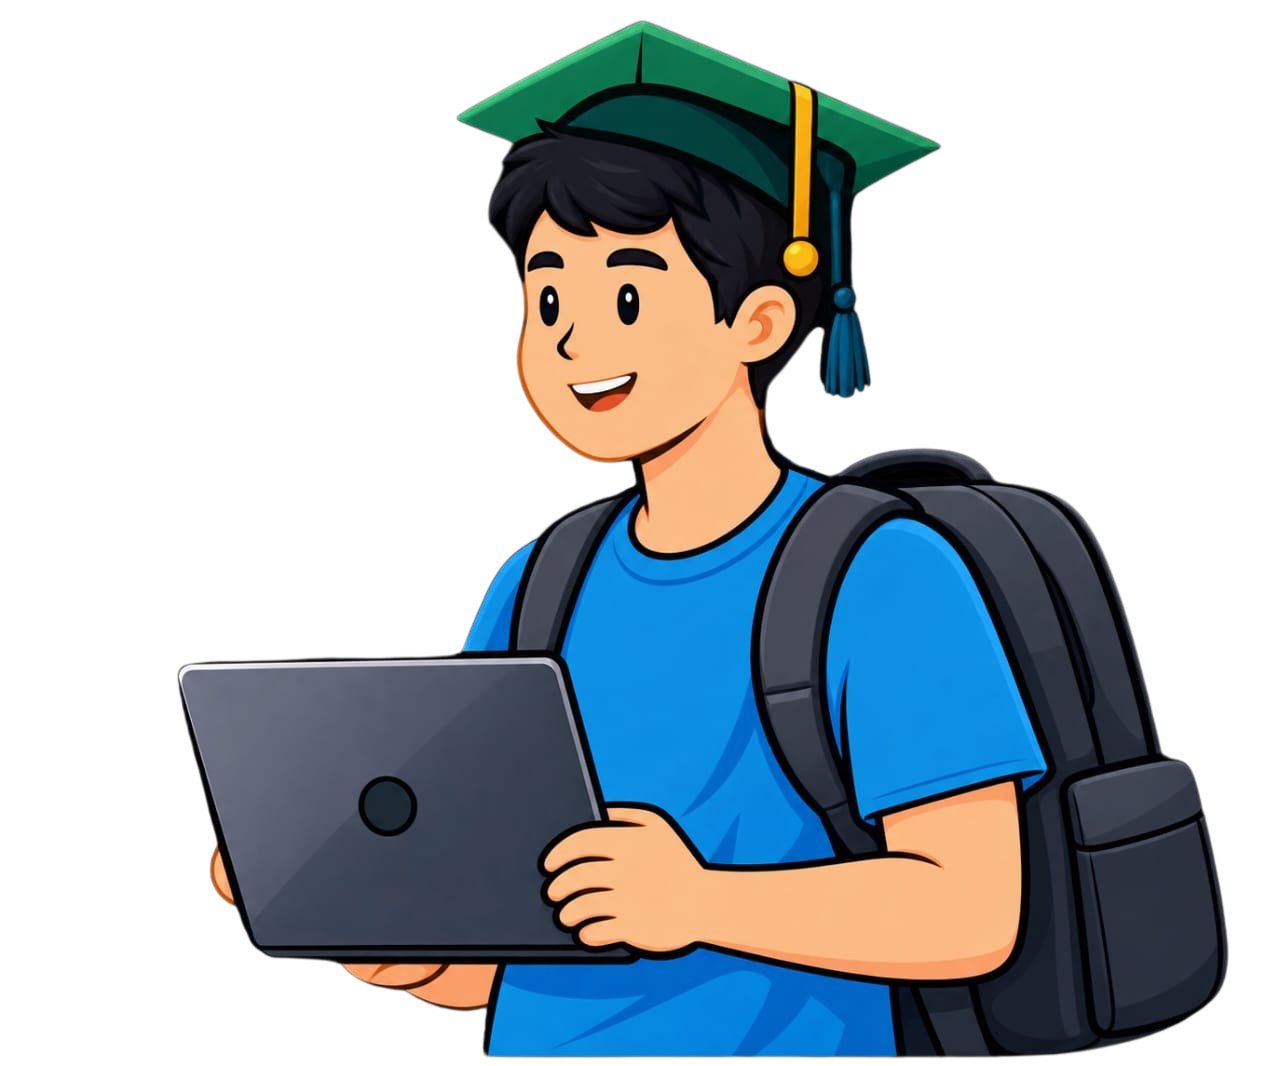
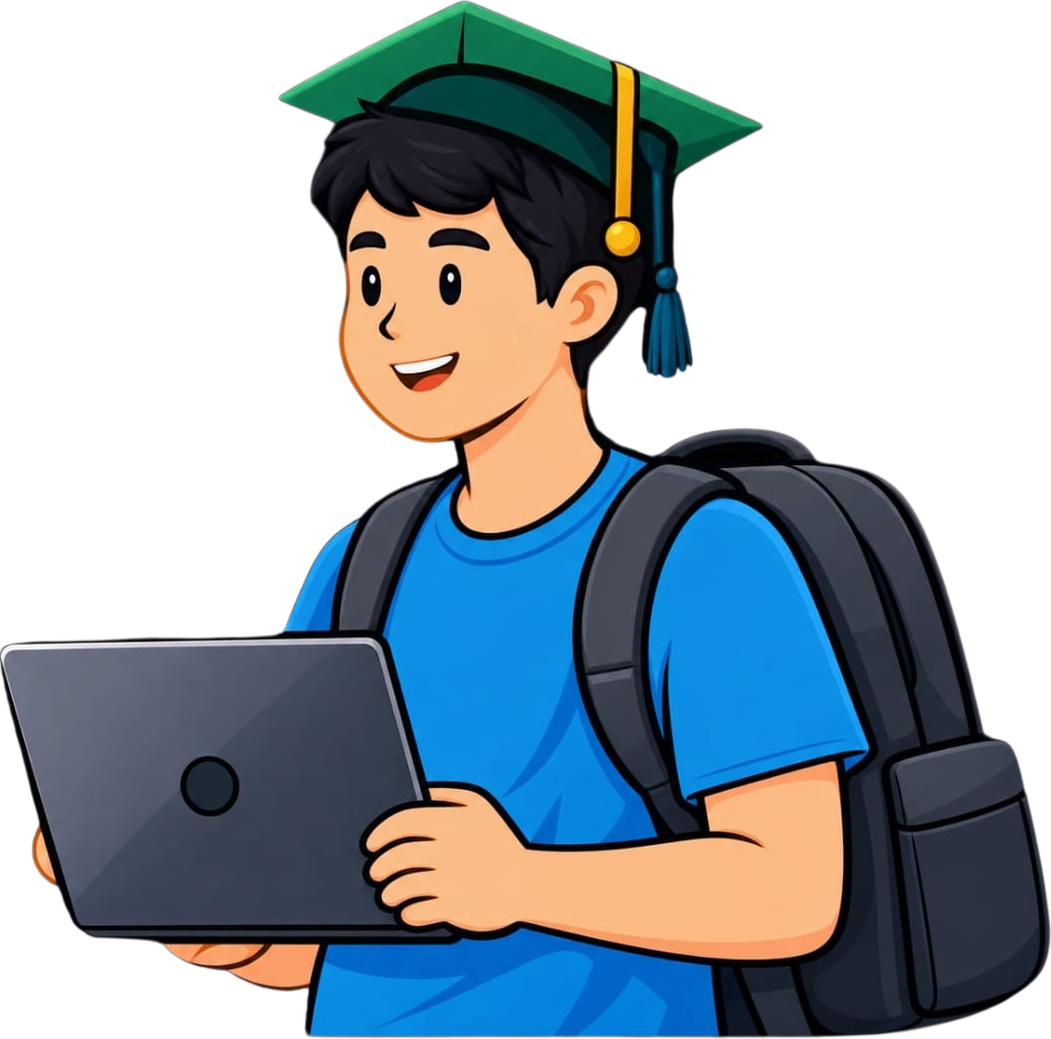
fix: shorten hero card and anchor student to bottom edge

diff --git a/client/src/pages/Dashboard.jsx b/client/src/pages/Dashboard.jsx
@@ -96,7 +96,7 @@ export default function Dashboard() {
             </div>
           </header>
 
-          <section className="flex overflow-hidden rounded-2xl bg-gradient-to-r from-emerald-100/80 via-emerald-50 to-white p-6 ring-1 ring-emerald-100 min-h-[220px]">
+          <section className="flex min-h-[150px] overflow-hidden rounded-2xl bg-gradient-to-r from-emerald-100/80 via-emerald-50 to-white px-6 py-3 ring-1 ring-emerald-100">
             <div className="flex w-full flex-col gap-4 md:flex-row md:justify-between">
               <div className="max-w-md md:self-center">
                 <h1 className="text-2xl font-extrabold text-forest-900 md:text-3xl">
@@ -106,7 +106,7 @@ export default function Dashboard() {
                   Take control of your money. Build your future.
                 </p>
               </div>
-              <div className="flex items-end gap-2 self-end md:-mb-6 md:mr-8">
+              <div className="flex items-end gap-2 self-end md:-mb-3 md:mr-6">
                 <div className="flex flex-col items-start gap-1 self-start">
                   <p className="-rotate-3 font-['Segoe_Script','Comic_Sans_MS',cursive] text-lg font-bold text-brand-600 md:text-xl">
                     Small Steps
@@ -123,7 +123,7 @@ export default function Dashboard() {
                   src={campusboy}
                   alt="Student holding a laptop"
                   loading="lazy"
-                  className="h-35 w-auto object-contain object-bottom md:h-40"
+                  className="h-35 w-auto object-contain object-bottom md:h-44"
                 />
               </div>
             </div>
